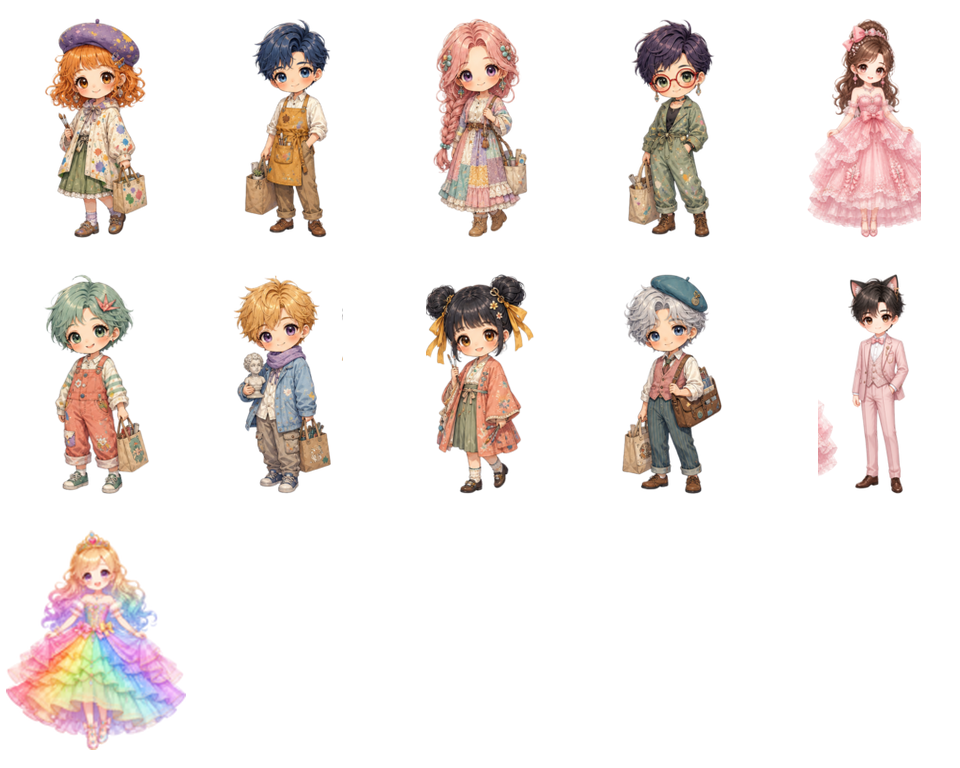
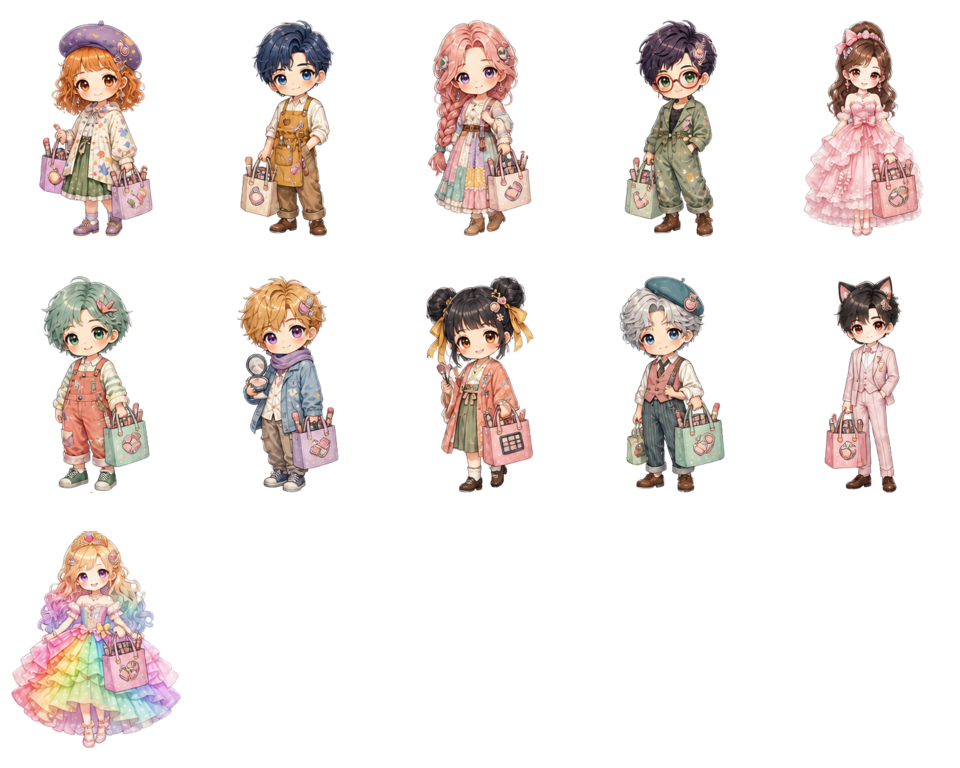
Add integrated beauty shopping totes to all 7F guests and verify atlas sizing and routes
Replit-Task-Id: c0a6b5f8-81cb-4849-843c-7f70a5513cb2
Replit-Merge-Attempt: MergeTask:c0a6b5f8-81cb-4849-843c-7f70a5513cb2:1:4ab6a22f

diff --git a/artifacts/momentum-checkin/components/MallCustomers.tsx b/artifacts/momentum-checkin/components/MallCustomers.tsx
@@ -1,10 +1,7 @@
 import React, { useEffect, useRef, useState } from 'react';
-import { Feather } from '@expo/vector-icons';
 import { AccessibilityInfo, Animated, Easing, Image, Platform, StyleSheet, View } from 'react-native';
 import palette from '@/constants/colors';
 import {
-  BEAUTY_BAG_GUEST_INDICES,
-  COSMETICS_SHOP_FLOOR,
   GUEST_FRAME_CELLS,
   GUEST_FRAME_HEIGHT,
   GUEST_FRAME_WIDTH,
@@ -18,7 +15,6 @@ import {
 } from '@/constants/mall-guests';
 
 const c = palette.light;
-const beautyBagColors = [c.candyPink, c.candyLavender, c.candyPeach, c.candySky, c.candyMint, c.candyCoral];
 
 function Shopper({ index, floor, width, reducedMotion, celebrationKey }: { index: number; floor: number; width: number; reducedMotion: boolean; celebrationKey: number }) {
   const route = GUEST_ROUTES[index];
@@ -32,9 +28,6 @@ function Shopper({ index, floor, width, reducedMotion, celebrationKey }: { index
   const frameWidth = frameSize.width;
   const frameHeight = frameSize.height;
   const routeBounds = getGuestRouteBounds(route, frameSize, width);
-  const carriesBeautyBag = floor === COSMETICS_SHOP_FLOOR
-    && (BEAUTY_BAG_GUEST_INDICES as readonly number[]).includes(index);
-  const beautyBagColor = beautyBagColors[index % beautyBagColors.length];
   useEffect(() => {
     if (reducedMotion) return;
     function walk(to: number) {
@@ -107,14 +100,6 @@ function Shopper({ index, floor, width, reducedMotion, celebrationKey }: { index
             }]}
           />
         </View>
-        {carriesBeautyBag && (
-          <View testID={`mall-guest-beauty-bag-${floor}-${index}`} style={s.beautyBagWrap}>
-            <View style={[s.beautyBagHandle, { borderColor: c.candyRoseDark }]} />
-            <View style={[s.beautyBag, { backgroundColor: beautyBagColor, borderColor: c.candyRoseDark }]}>
-              <Feather name={index % 2 === 0 ? 'heart' : 'star'} size={6} color={c.candyRoseDark} />
-            </View>
-          </View>
-        )}
       </Animated.View>
     </Animated.View>
   );
@@ -142,7 +127,4 @@ const s = StyleSheet.create({
   shadow: { position: 'absolute', bottom: 7, left: 10, width: 28, height: 4, borderRadius: 12, opacity: 0.15 },
   spriteWindow: { overflow: 'hidden' },
   spriteSheet: { position: 'absolute' },
-  beautyBagWrap: { position: 'absolute', left: 32, bottom: 9, width: 14, height: 17, alignItems: 'center', justifyContent: 'flex-end' },
-  beautyBagHandle: { position: 'absolute', top: 0, width: 6, height: 5, borderWidth: 1.2, borderBottomWidth: 0, borderTopLeftRadius: 4, borderTopRightRadius: 4 },
-  beautyBag: { width: 12, height: 12, borderWidth: 1, borderRadius: 3, alignItems: 'center', justifyContent: 'center' },
 });

diff --git a/artifacts/momentum-checkin/constants/mall-guests.ts b/artifacts/momentum-checkin/constants/mall-guests.ts
@@ -9,7 +9,7 @@ export const GUEST_SHEETS: ImageSourcePropType[] = [
   require('../assets/images/guests-floor-4.png'),
   require('../assets/images/guests-floor-5.png'),
   require('../assets/images/guests-floor-6.png'),
-  require('../assets/images/guests-floor-7.png'),
+  require('../assets/images/guests-floor-7.png'), // Beauty totes are painted into each shopper, so they share the existing walk/turn animation.
   require('../assets/images/guests-floor-8.png'),
   require('../assets/images/guests-floor-9.png'),
   require('../assets/images/guests-floor-10-carnival.png'),
@@ -39,7 +39,8 @@ export const GUEST_FRAME_SIZES_BY_FLOOR = Array.from({ length: 20 }, (_, index) 
 );
 export const GUEST_COUNTS_BY_FLOOR = [10, 10, 10, 12, 11, 10, 11, 13, 10, 13, 13, 13, 13, 13, 13, 13, 13, 13, 13, 10] as const;
 export const COSMETICS_SHOP_FLOOR = 7;
-export const BEAUTY_BAG_GUEST_INDICES = [0, 2, 4, 6, 8, 10] as const;
+// Atlas metadata: all 11 original 7F guests (including the rainbow princess) now carry beauty totes.
+export const BEAUTY_BAG_GUEST_INDICES = [0, 1, 2, 3, 4, 5, 6, 7, 8, 9, 10] as const;
 
 export const GUEST_FRAME_CELLS: ReadonlyArray<{ column: number; row: number }> = [
   { column: 0, row: 0 },

diff --git a/.agents/memory/guest-atlas-artwork.md b/.agents/memory/guest-atlas-artwork.md
@@ -1,0 +1,10 @@
+---
+name: 客人圖集美術處理
+description: AI 編輯客人圖集時的尺寸、透明度與身高驗收限制。
+---
+
+AI 圖片編輯即使收到固定畫布和透明背景要求，仍可能輸出方形畫布及不透明棋盤格。不可把整張結果直接拉伸回舊圖集。
+
+**Why:** 商場客人需要固定格位和一致可見身高；整張拉伸會讓身體變形，也不能保證每格不夾到鄰近人物。
+
+**How to apply:** 先檢查實際尺寸及 alpha，必要時去背，再逐個完整角色等比例整理回原格位。以5F可見身高作參考，保留彩虹公主等既有專屬角色。將圖集合成到有色背景目視檢查完整頭髮、手腳、購物袋及殘留碎片，並驗證未用圖格保持透明。

diff --git a/.agents/memory/MEMORY.md b/.agents/memory/MEMORY.md
@@ -15,3 +15,4 @@
 - [手機網頁打卡推播](web-push-reminders.md) — 使用者需要關閉網頁後仍可收到每日提醒；訪客可用、可選時間，當日已打卡就略過。
 - [Expo SVG 圖片資源](cross-platform-svg-assets.md) — SVG 明信片需用 expo-asset 取得跨平台圖片 URI，並避免 Hermes 不支援的字串 API。
 - [狗狗店員圖片與互動](dog-staff-image-assets.md) — 名單與放大畫面同步切換；餵食、五種不同玩具玩法和主題背景保留各狗狗原貌。
+- [客人圖集美術處理](guest-atlas-artwork.md) — AI 編輯不保證畫布尺寸；逐人等比例整理回原格位，再檢查透明邊緣及5F參考身高。
